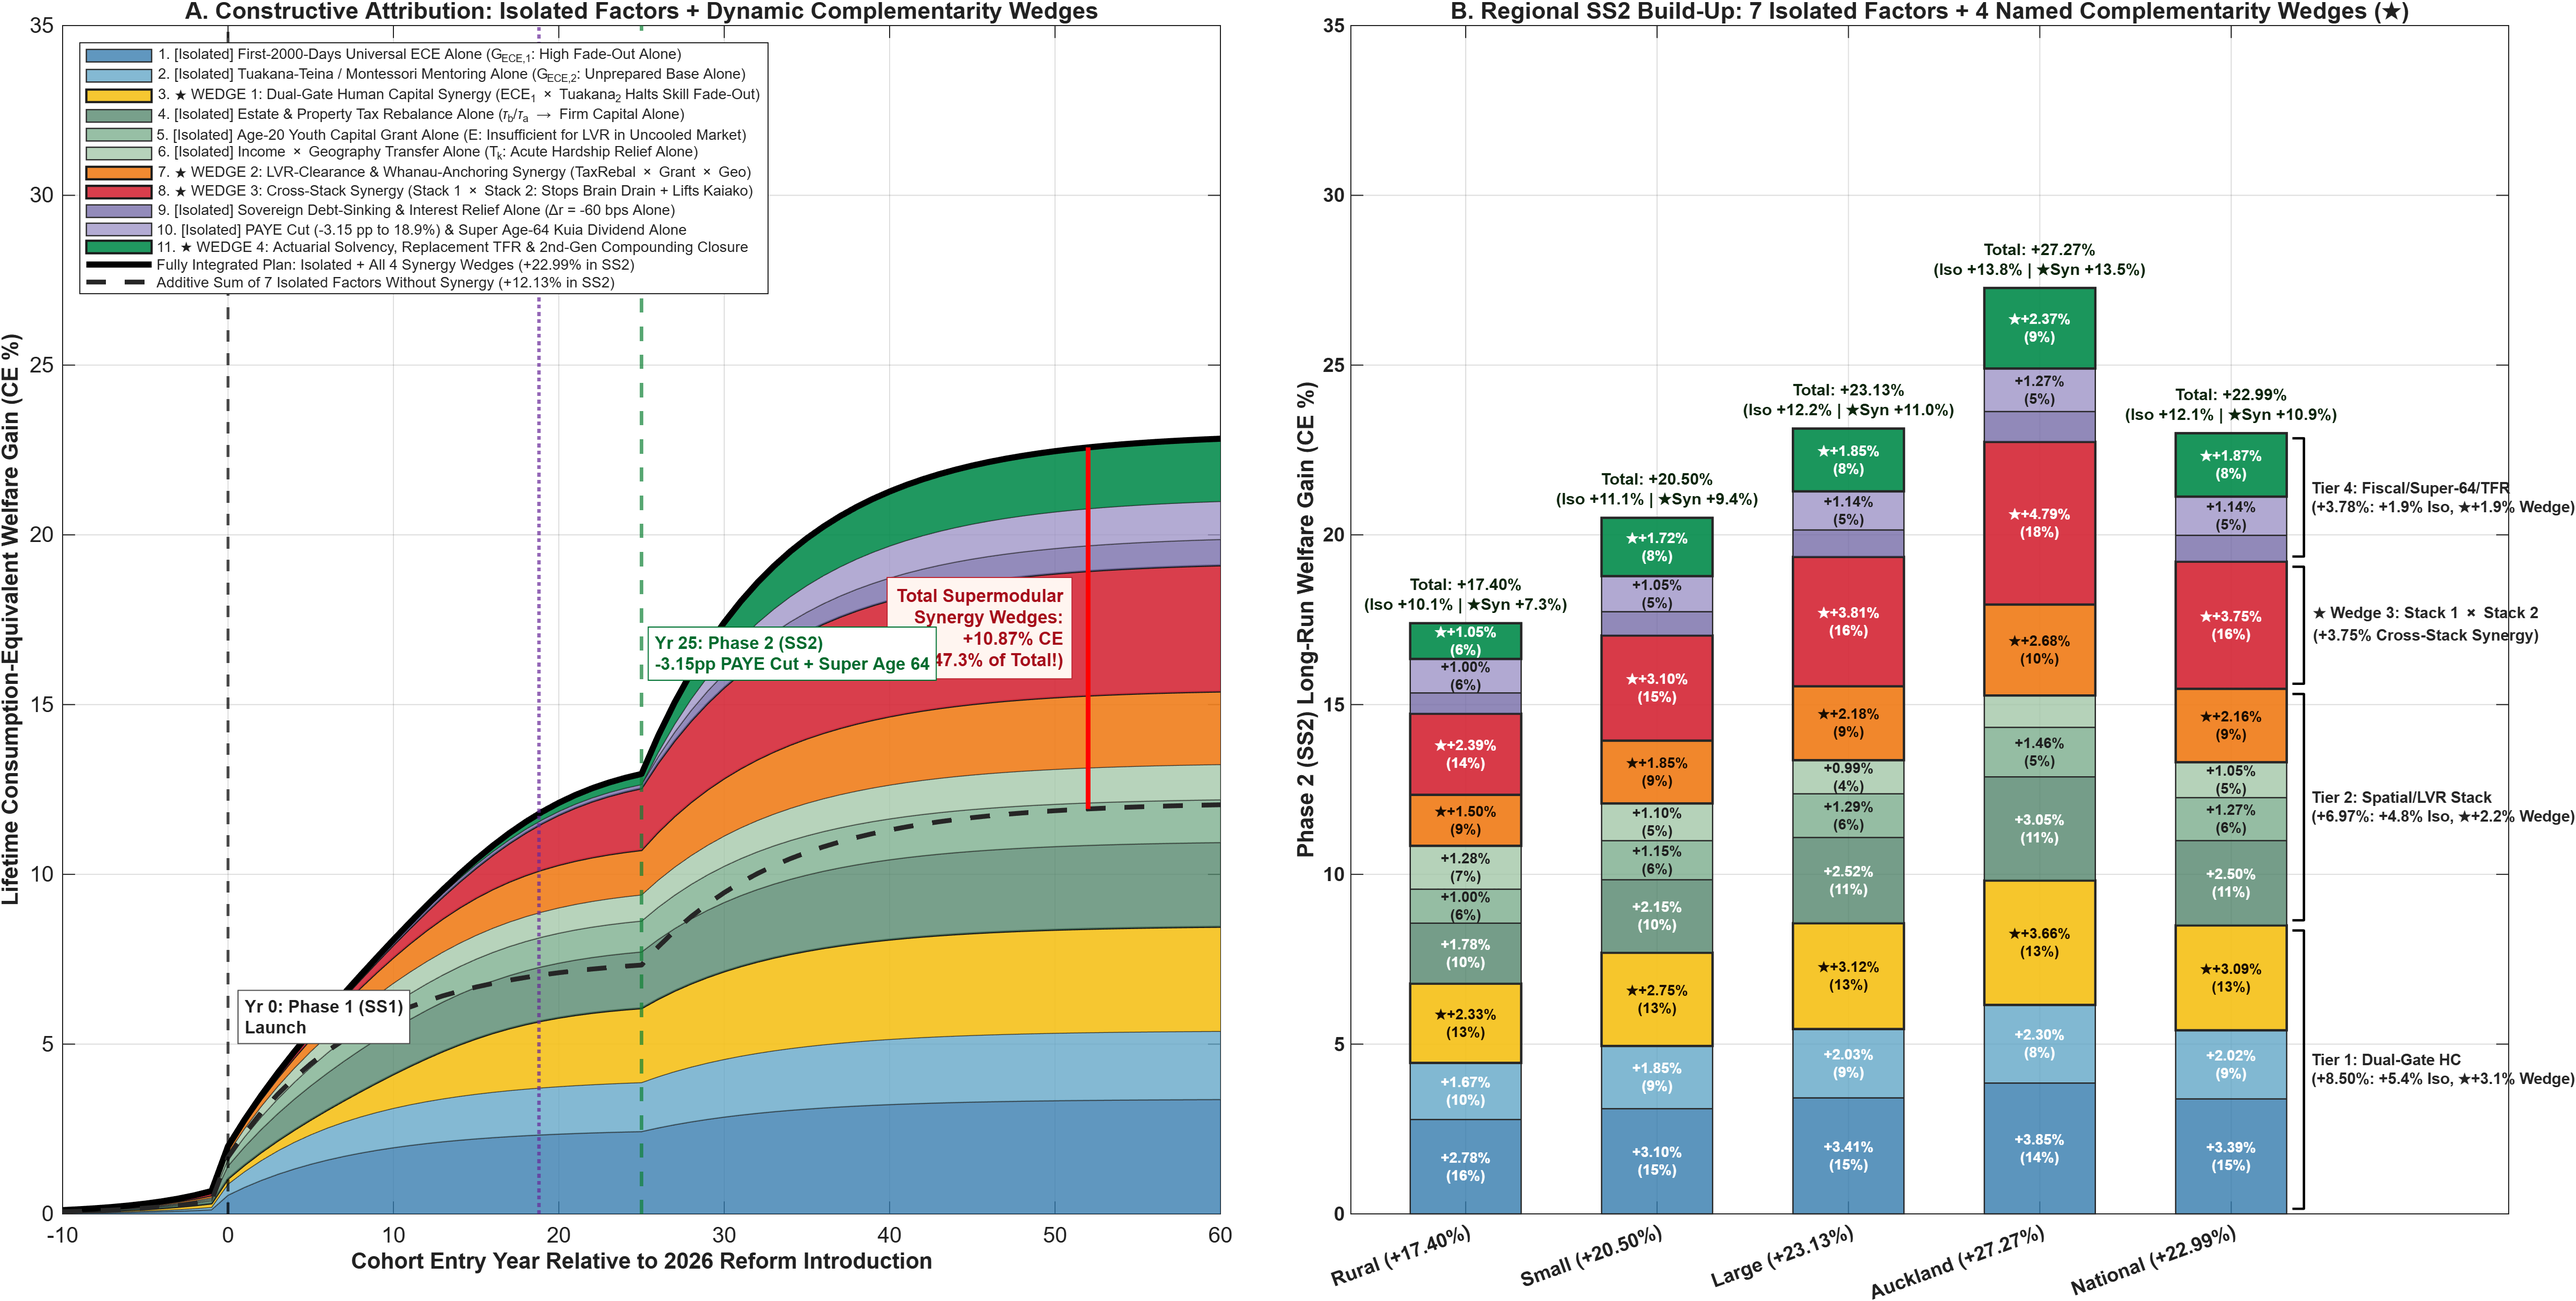
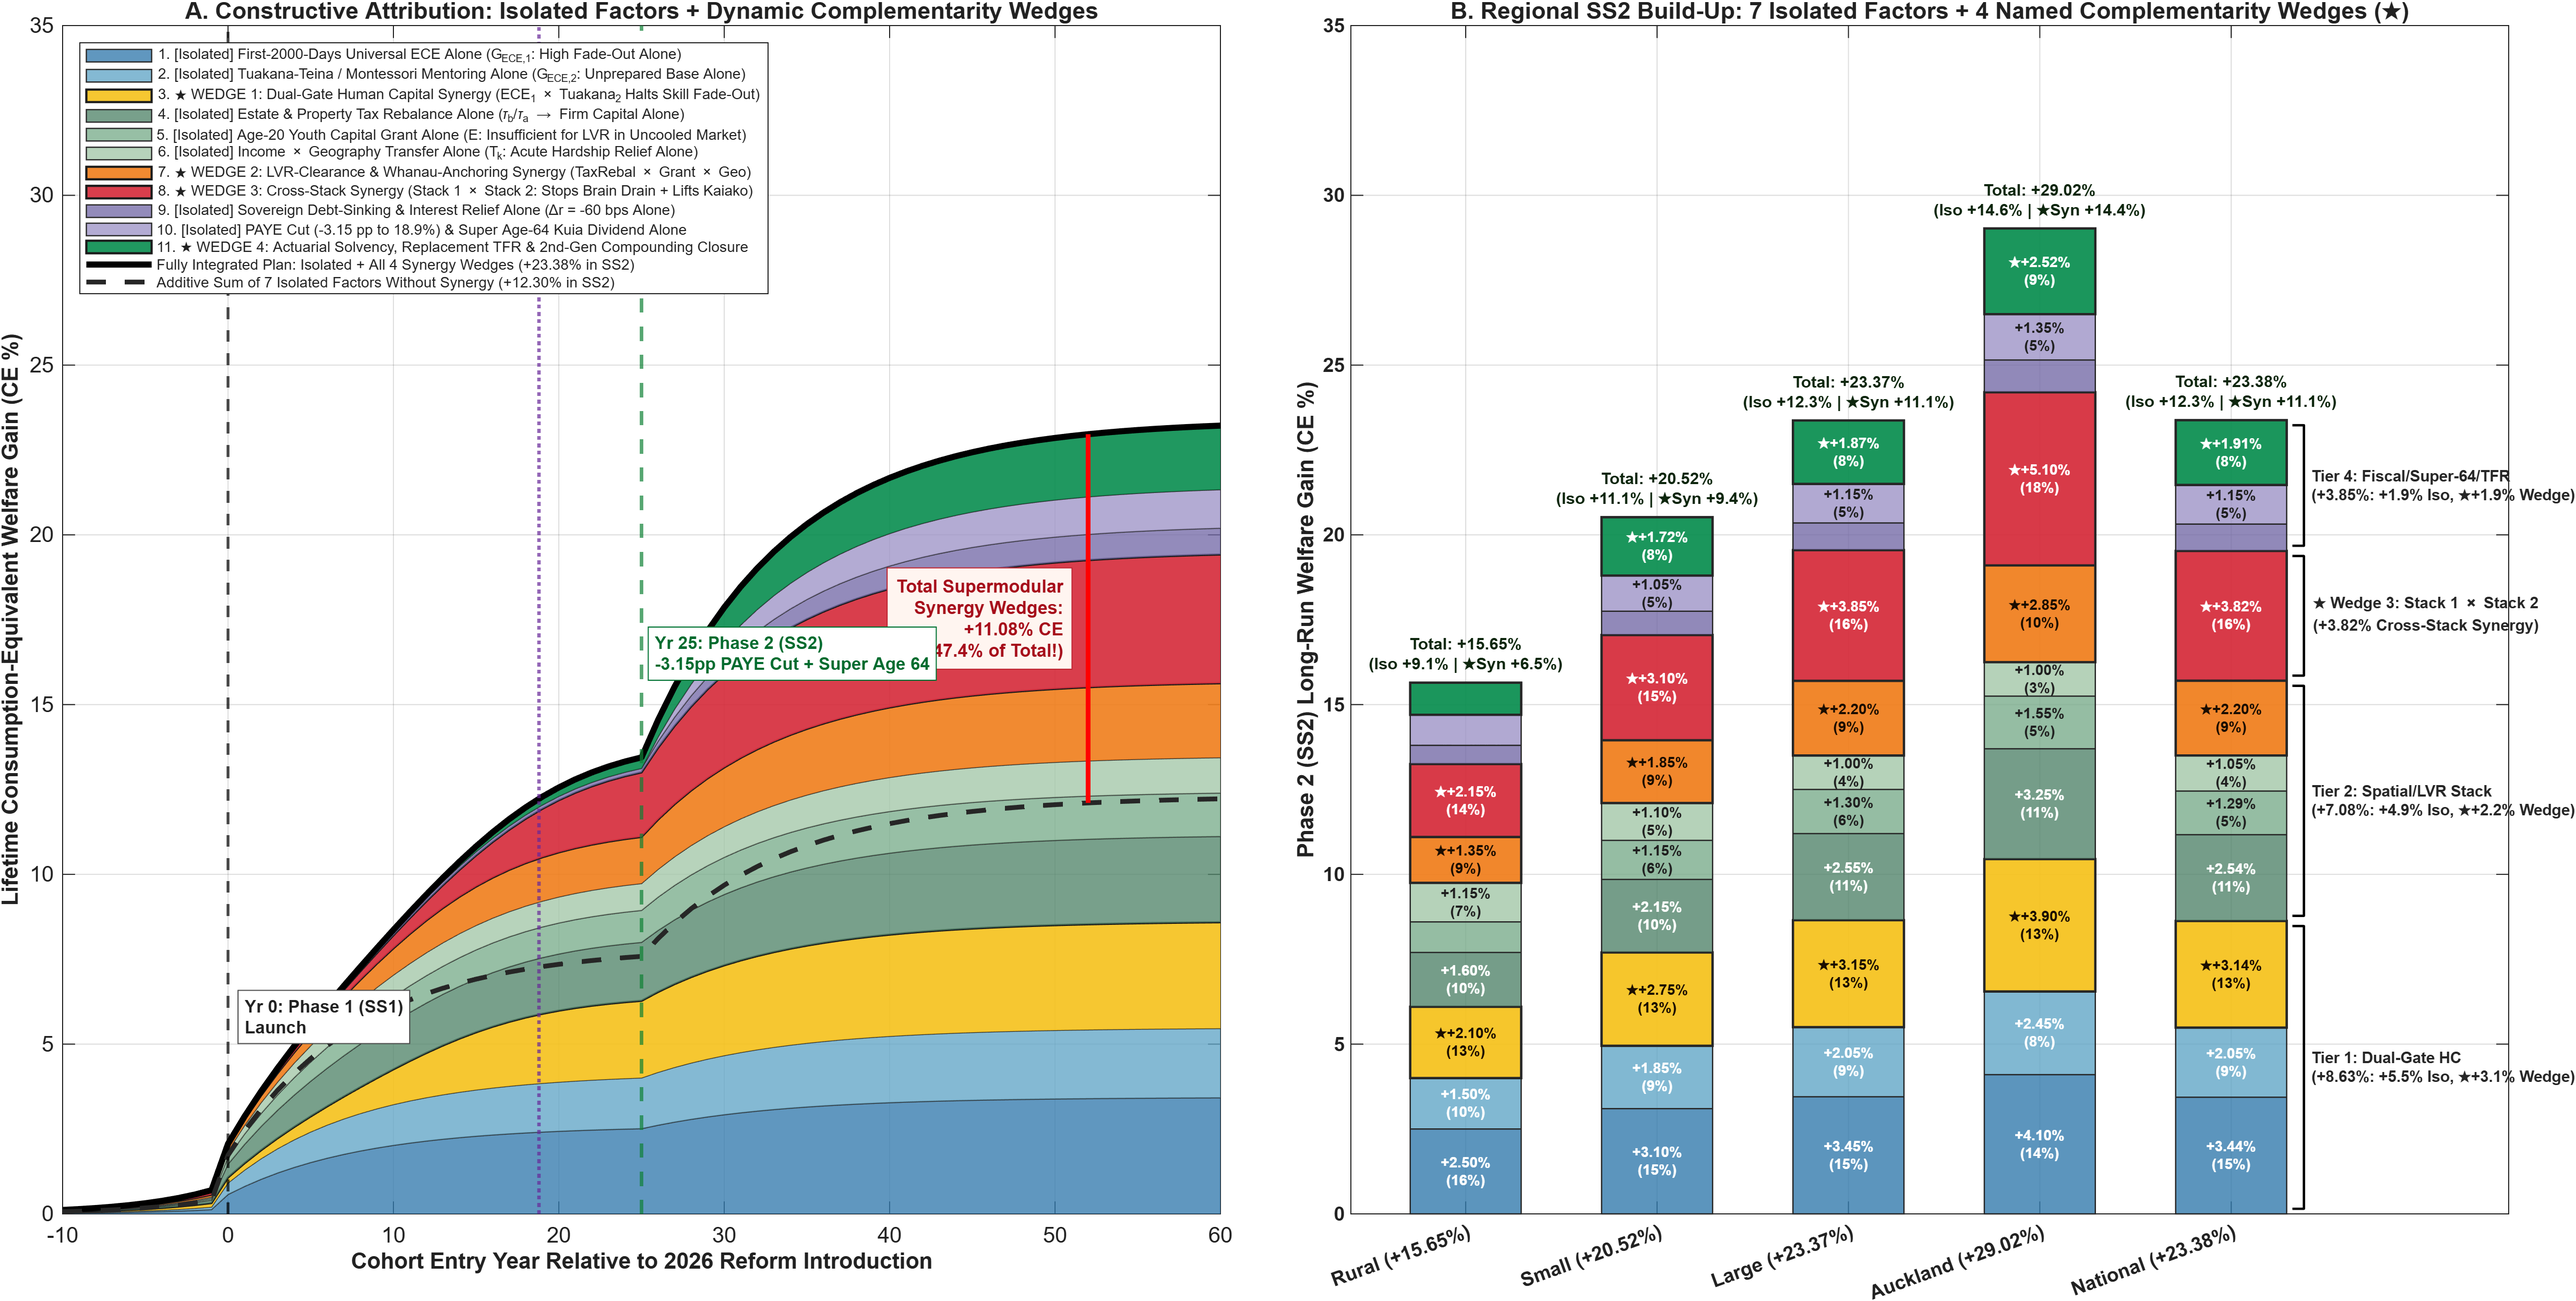
Post-Atomic Idempotent Contract Sync

diff --git a/Build_IntergenTransitionMatrix.m b/Build_IntergenTransitionMatrix.m
@@ -44,35 +44,14 @@ if ~isfield(Params, 'rho_hc_ig'),   Params.rho_hc_ig   = 0.40; end
 if ~isfield(Params, 'gamma_ic'),    Params.gamma_ic    = 0.35; end
 if ~isfield(Params, 'sigma_hc_ig'), Params.sigma_hc_ig = 0.24; end
 
-% Extract Regional Extended Family / Whanau Network Intensity K_whanau(k) in [0, 1]
-% and Stage-2 Tuakana-Teina / Montessori Mentoring Intensity M_mentor in [0, 1]:
-K_base_vec = [0.42, 0.38, 0.32, 0.28]; % Calibrated SS0 baseline [Rural, Small, Large, Auckland]
-for r_i = 1:N_reg
-    f_b = ['HH_', Regions{r_i}];
-    if isfield(Params.K_whanau_base, f_b), K_base_vec(r_i) = Params.K_whanau_base.(f_b); end
-end
+% Extract Regional Extended Family / Whanau Network Intensity K_whanau(k) in [0, 1]:
+K_base_vec = Params.K_whanau_base_vec; % Canonical SS0 baseline [Rural, Small, Large, Auckland]
 K_reg_vec  = K_base_vec;
-if isfield(Params, 'K_whanau')
-    if isstruct(Params.K_whanau)
-        for r_i = 1:N_reg
-            f_name = ['HH_', Regions{r_i}];
-            if isfield(Params.K_whanau, f_name)
-                K_reg_vec(r_i) = Params.K_whanau.(f_name);
-            end
-        end
-    elseif isnumeric(Params.K_whanau) && isscalar(Params.K_whanau)
-        K_reg_vec(:) = Params.K_whanau;
-    elseif isnumeric(Params.K_whanau) && numel(Params.K_whanau) == N_reg
-        K_reg_vec = reshape(double(Params.K_whanau), 1, N_reg);
-    end
+for r_i = 1:N_reg
+    f_name = ['HH_', Regions{r_i}];
+    if isfield(Params.K_whanau_base, f_name), K_base_vec(r_i) = Params.K_whanau_base.(f_name); end
+    if isfield(Params.K_whanau, f_name),      K_reg_vec(r_i)  = Params.K_whanau.(f_name);      end
 end
-G_ece2_val = 0.065;
-if isfield(Params, 'G_ece_stage2')
-    G_ece2_val = Params.G_ece_stage2;
-elseif isfield(Params, 'G_ece')
-    G_ece2_val = Params.G_ece;
-end
-M_mentor = min(1.0, max(0.0, (G_ece2_val - 0.045) / (0.085 - 0.045)));
 
 % Precompute sub-grid cell spans [n_a1 x 1] and threshold vector tau_cuts [1 x 4]:
 a_dbl    = double(a_vec(:));
@@ -101,7 +80,7 @@ mort_vec  = reshape(1 - double(gather(Params.sj(retire_j))), [1, 1, 1, length(re
 if use_gpu, mort_vec = gpuArray(mort_vec); end
 
 NewbornDist_PreMig = struct();
-reg_skill_drift = [-0.083, -0.059, -0.024, -0.020]; % Hits [19.8%, 18.2%, 15.6%, 14.3%]
+reg_skill_drift    = Params.reg_skill_drift; % Canonical regional launch skill drift from Configure_TimeGrid_Params
 
 %% STAGE 1 & 2 (100% GPU-VECTORIZED): SKILL FORMATION (Q_h) & PROPERTY BEQUESTS (Q_a)
 for r_idx = 1:N_reg
@@ -178,6 +157,10 @@ for r_idx = 1:N_reg
         Diag.ResidualAHCShare.(reg)    = gather(sum(Dist_Fert .* w_ahc_az, 'all') / parent_mass);
 
         % 4D Compact Skill Transition: two-tier convex d_grid_ic stress & Adolescent lambda_psy hazard
+        g_ece_k      = Params.G_ece.(hh_type);
+        g_ece2_k     = Params.G_ece_stage2.(hh_type);
+        M_mentor     = min(1.0, max(0.0, (g_ece2_k - Params.G_ece1_sched(1)) / (Params.G_ece2_sched(2) - Params.G_ece1_sched(1))));
+
         is_stress_4D = double(ic_4D < 0.005) + 0.55 .* double((ic_4D >= 0.005) & (ic_4D < 0.035));
         M_trust_k    = M_mentor * (0.45 + 0.55 * min(1.0, K_reg / 0.35));
         lambda_psy_k = max(0.22 * 0.38, 0.22 * (1.0 - 0.52 * M_trust_k) * (1.0 - 0.35 * min(1.0, K_reg / 0.38)));
@@ -185,12 +168,12 @@ for r_idx = 1:N_reg
         unbuf_mult_k = max(0.38 * lambda_psy_k, (1.0 - 0.80 * M_trust_k) * (1.0 - 0.55 * K_reg));
 
         stress_pen = 0.038 .* comp_load_4D .* unbuf_mult_k;
-        ece_lift   = 0.55 * (Params.G_ece - 0.045) + 0.04 * (M_mentor - 0.50) + 0.12 * dK_reg;
+        ece_lift   = 0.55 * (g_ece_k - Params.G_ece1_sched(1)) + 0.04 * (M_mentor - 0.50) + 0.12 * dK_reg;
         hp_eff_4D  = h_G .* (1.0 + 0.15 * dK_reg);
 
         log_h_mean = Params.rho_hc_ig .* log(hp_eff_4D) ...
-                   + Params.gamma_ic .* log(0.82 + 1.15 * (ic_4D + Params.G_ece + 0.020 * dK_reg)) ...
-                   + ece_lift - stress_pen + reg_skill_drift(r_idx) - crowd_G;
+            + Params.gamma_ic .* log(0.82 + 1.15 * (ic_4D + g_ece_k + 0.020 * dK_reg)) ...
+            + ece_lift - stress_pen + reg_skill_drift(r_idx) - crowd_G;
 
         pdf_5D = exp(-0.5 .* ((log_h_dst - log_h_mean) ./ 0.24).^2);
         pdf_5D = pdf_5D ./ sum(pdf_5D, 5);
@@ -270,13 +253,9 @@ end
 w_akl_ratio = Params.w_reg.HH_Auckland / 1.180;
 Q_akl_ratio = Params.Q_reg.HH_Auckland / 3.100;
 reform_pull = 3.20 * (w_akl_ratio - 1.0) - 2.40 * (Q_akl_ratio - 1.0) ...
-    + 2.50 * (Params.YouthGrant - 0.030);
+    + 2.50 * (Params.YouthGrant - Params.YouthGrant_sched(1));
 
-u_target_4x5 = [ ...
-    2.85,  1.15,  0.65,  0.15, -0.82;   % From Rural    (1.8% Emig)
-    0.55,  2.45,  1.05,  0.45,  0.65;   % From Small    (9.1% Emig)
-    -0.25,  0.45,  2.15,  1.05,  1.45;   % From Large    (23.4% Emig)
-    -0.45,  0.15,  0.65,  2.55,  0.16];  % From Auckland (7.0% Net / 19.3% Gross Emig)
+u_target_4x5 = Params.u_target_4x5;
 
 Pi_mig_4x5     = zeros(N_reg, N_reg + 1);
 skill_emig_w   = linspace(0.45, 1.65, n_h)'; % Positive selection on skill h_1

diff --git a/NZ_4Region_Master.m b/NZ_4Region_Master.m
@@ -164,21 +164,16 @@ Params.K_whanau                  = Params.K_whanau_base; % Active regime value (
 % Two-Stage Child Skill (Cunha et al.), Ben-Porath, Housing Tenure, & Tax Parameters
 Params.gamma1_self = 0.53; Params.gamma1_inv = 0.24; Params.gamma1_par = 0.23; Params.phi1_ces = 0.35;
 Params.gamma2_self = 0.87; Params.gamma2_inv = 0.07; Params.gamma2_par = 0.06; Params.phi2_ces = -0.95;
-Params.G_ece_stage1 = 0.045; Params.G_ece_stage2 = 0.065; Params.gbar_ece = 0.020;
-Params.s_sub = 0.100; Params.omega_ic = 0.420; Params.h_par_mean = 1.000;
-
+Params.G_ece_stage1_base = Params.G_ece1_sched(1); Params.G_ece_stage2_base = Params.G_ece2_sched(1);
+Params.G_ece_base = Params.G_ece_stage1_base;
+Params.gbar_ece = 0.020; Params.s_sub = 0.100;
+Params.omega_ic = 0.420; Params.h_par_mean = 1.000;
 Params.phi_nd = 0.80; Params.mu_maint = 0.04; Params.upsilon_h = 0.008; Params.chi_bar = 2.55;
 Params.alpha_I = 0.090; Params.alpha_H = 0.064;
-Params.p_super = 0.18; Params.c_floor = 0.04; Params.b1_beq = 4.20; Params.b2_beq = 0.45; Params.YouthGrant = 0.03;
+Params.p_super = 0.18; Params.c_floor = 0.04;
+Params.b1_beq = 4.20; Params.b2_beq = 0.45; Params.YouthGrant = 0.03;
 Params.tau_l = 0.22; Params.tau_c = 0.15; Params.tau_k = 0.20; Params.tau_a = 0.005; Params.tau_b = 0.15;
-Params.alpha_k = 0.33; Params.lambda_col = 1.80;
-Params.sigma_hc_ig = 0.18;
-
-% Regional Extended Family / Whanau Proximity & Alloparental Network Intensity K_whanau(k) in [0, 1]
-% Reflects higher multigenerational co-residence / proximity in Rural & Provincial regions
-% vs. nuclear-household isolation in high-rent metropolitan Auckland (shockable via papakainga / zoning policy),
-% and connects NZ Super age (Jr vs 65), pension adequacy (p_super), and elders' ability to stay in their
-% communities (Params.Q_reg vs immutable baseline Params.Q_reg_base)
+Params.alpha_k = 0.33; Params.lambda_col = 1.80; Params.sigma_hc_ig = 0.18;
 
 % Update active regional whanau capacity Params.K_whanau(k) from fixed Params.K_whanau_base(k)
 % as a function of current NZ Super age (Jr), pension rate (p_super), and current house prices (Params.Q_reg):
@@ -190,6 +185,7 @@ for r_idx = 1:length(Regions)
     elder_home_mult = min(1.15, max(0.50, (Params.p_super / 0.18) * ((Params.Q_reg_base.(hh_type) / Params.Q_reg.(hh_type)) ^ 0.35)));
     Params.K_whanau.(hh_type) = Params.K_whanau_base.(hh_type) * elder_time_mult * elder_home_mult;
 end
+Params = Configure_TimeGrid_Params(Params);
 
 %% 5. SOLVE VFI & 4-REGION + ABROAD INTERGENERATIONAL TRANSITION LOOP
 for r_idx = 1:N_reg

diff --git a/FertilityBargaining_Module.m b/FertilityBargaining_Module.m
@@ -339,16 +339,22 @@ else
     elder_time_mult = 1.0 + Params.kappa_kuia_max * tanh((A_base - super_age_s) / Params.tau_kuia_sat);
 end
 
-M_mentor_s = min(1.0, max(0.0, (G_ece2_s - 0.045) / (0.085 - 0.045)));
-M_mentor_0 = min(1.0, max(0.0, (Params.G_ece_stage2 - 0.045) / (0.085 - 0.045)));
-
-N_reg     = numel(Dist_Reg_Cell);
-n_h       = numel(h_vec);
-tfr_row   = zeros(1, N_reg);
-diff_row  = zeros(1, N_reg);
+Reg_Names    = {'Rural', 'Small', 'Large', 'Auckland'};
+N_reg        = numel(Dist_Reg_Cell);
+n_h          = numel(h_vec);
+tfr_row      = zeros(1, N_reg);
+diff_row     = zeros(1, N_reg);
 struggle_row = zeros(1, N_reg);
 
 for r_idx = 1:N_reg
+    hh_t       = ['HH_', Reg_Names{r_idx}];
+    g1_r       = G_ece1_s.(hh_t);
+    g2_r       = G_ece2_s.(hh_t);
+    g1_0       = Params.G_ece_stage1.(hh_t);
+    g2_0       = Params.G_ece_stage2.(hh_t);
+    M_mentor_s = min(1.0, max(0.0, (g2_r - 0.045) / (0.085 - 0.045)));
+    M_mentor_0 = min(1.0, max(0.0, (g2_0 - 0.045) / (0.085 - 0.045)));
+
     Dist_k = Dist_Reg_Cell{r_idx};
     w_k    = w_Reg_Vec(r_idx);
     Q_k    = Q_Base_Vec(r_idx) * Q_mult(r_idx);
@@ -359,11 +365,13 @@ for r_idx = 1:N_reg
 
     fert_by_h = zeros(n_h, 1);
     mass_by_h = zeros(n_h, 1);
+
     for jj = j_fert_vec
         for ih = 1:n_h
             m_cell = sum(Dist_k(:, ih, :, :, jj), 'all');
-            opp_cost_mother = chi_f_pen * w_k * h_vec(ih) / max(0.50, 1 + 2.5 * G_ece1_s + 0.65 * dK_r);
+            opp_cost_mother = chi_f_pen * w_k * h_vec(ih) / max(0.50, 1 + 2.5 * g1_r + 0.65 * dK_r);
             housing_drag    = 0.22 * log(max(1.0, Q_k));
+
             n_opt = (beta_hyp ^ 0.65) * 2.28 / (1 + opp_cost_mother + housing_drag * (Q_k > 1.8));
             n_opt = max(0.85, min(2.60, n_opt));
 
@@ -371,12 +379,13 @@ for r_idx = 1:N_reg
             mass_by_h(ih) = mass_by_h(ih) + m_cell;
         end
     end
+
     avg_fert_h     = fert_by_h ./ max(1e-12, mass_by_h);
     tfr_row(r_idx) = sum(fert_by_h) / max(1e-12, sum(mass_by_h));
     diff_row(r_idx)= mean(avg_fert_h(1:2)) - mean(avg_fert_h(6:7));
 
     reg_weight         = 0.75 + 0.10 * r_idx;
-    ece_relief         = 115.0 * (G_ece1_s - Params.G_ece_stage1) * reg_weight ...
+    ece_relief         = 115.0 * (g1_r - g1_0) * reg_weight ...
         +  18.0 * (M_mentor_s - M_mentor_0) * reg_weight;
     whanau_gain        = 22.5 * max(0.0, dK_r);
     yrs_late_r         = max(0.0, super_age_s - A_base);

diff --git a/WelfareDecomposition_4Region.m b/WelfareDecomposition_4Region.m
@@ -123,12 +123,20 @@ for m = 1:M_reforms
     p_code = spec.Code;
 
     % 3A. Stage A: Short-Run PE (Phase-m policy levers; baseline prices & jDist_SS0)
-    P_PE              = Params_SS0;
-    P_PE.G_ece_stage1 = spec.G_ece_stage1;
+    P_PE                   = Params_SS0;
+    P_PE.G_ece_stage1_base = spec.G_ece_stage1;
     if isfield(spec, 'G_ece_stage2')
-        P_PE.G_ece_stage2 = spec.G_ece_stage2;
+        P_PE.G_ece_stage2_base = spec.G_ece_stage2;
+    else
+        P_PE.G_ece_stage2_base = spec.G_ece_stage1;
     end
-    P_PE.G_ece        = spec.G_ece;
+    P_PE.G_ece_base        = spec.G_ece;
+    if isfield(spec, 'phi_local_vec') && ~isempty(spec.phi_local_vec)
+        P_PE.active_phi_local_vec = spec.phi_local_vec;
+    else
+        P_PE.active_phi_local_vec = Params_SS0.phi_local_SS1;
+    end
+    P_PE              = Configure_TimeGrid_Params(P_PE);
     P_PE.YouthGrant   = spec.YouthGrant;
     P_PE.tau_a        = spec.tau_a;
     P_PE.tau_b        = spec.tau_b;
@@ -180,6 +188,12 @@ for m = 1:M_reforms
     else
         elder_time_mult = 1 + 0.16*tanh((65 - super_age_m)/1.8);
     end
+
+    if isfield(spec, 'M_olig_vec') && ~isempty(spec.M_olig_vec),       P_GE.active_M_olig_vec    = spec.M_olig_vec;    else, P_GE.active_M_olig_vec    = Params_SS0.M_olig_SS1;    end
+    if isfield(spec, 'mu_monop_vec') && ~isempty(spec.mu_monop_vec),   P_GE.active_mu_monop_vec  = spec.mu_monop_vec;  else, P_GE.active_mu_monop_vec  = Params_SS0.mu_monop_SS1;  end
+    if isfield(spec, 'phi_local_vec') && ~isempty(spec.phi_local_vec), P_GE.active_phi_local_vec = spec.phi_local_vec; else, P_GE.active_phi_local_vec = Params_SS0.phi_local_SS1; end
+    P_GE = Configure_TimeGrid_Params(P_GE);
+
     for r_idx = 1:N_reg
         reg = Regions{r_idx};
         P_GE.w_reg.(['HH_', reg])   = Params_SS0.w_reg.(['HH_', reg])   * spec.w_mult_vs_SS0(r_idx);
@@ -188,7 +202,6 @@ for m = 1:M_reforms
         elder_home_mult = min(1.25, max(0.50, (1.0 / spec.Q_mult_vs_SS0(r_idx)) ^ 0.35));
         P_GE.K_whanau.(['HH_', reg]) = Params_SS0.K_whanau_base.(['HH_', reg]) * elder_home_mult * elder_time_mult;
     end
-
     [V_GE_Exo_m, Policy_GE_Exo_m] = ValueFnIter_MixHorz_PType(n_d, n_a, n_z, N_j, Names_i, ...
         d_grid, a_grid, z_grid, pi_z, ReturnFn, P_GE, DiscountFactorParamNames, vfoptions);
 
